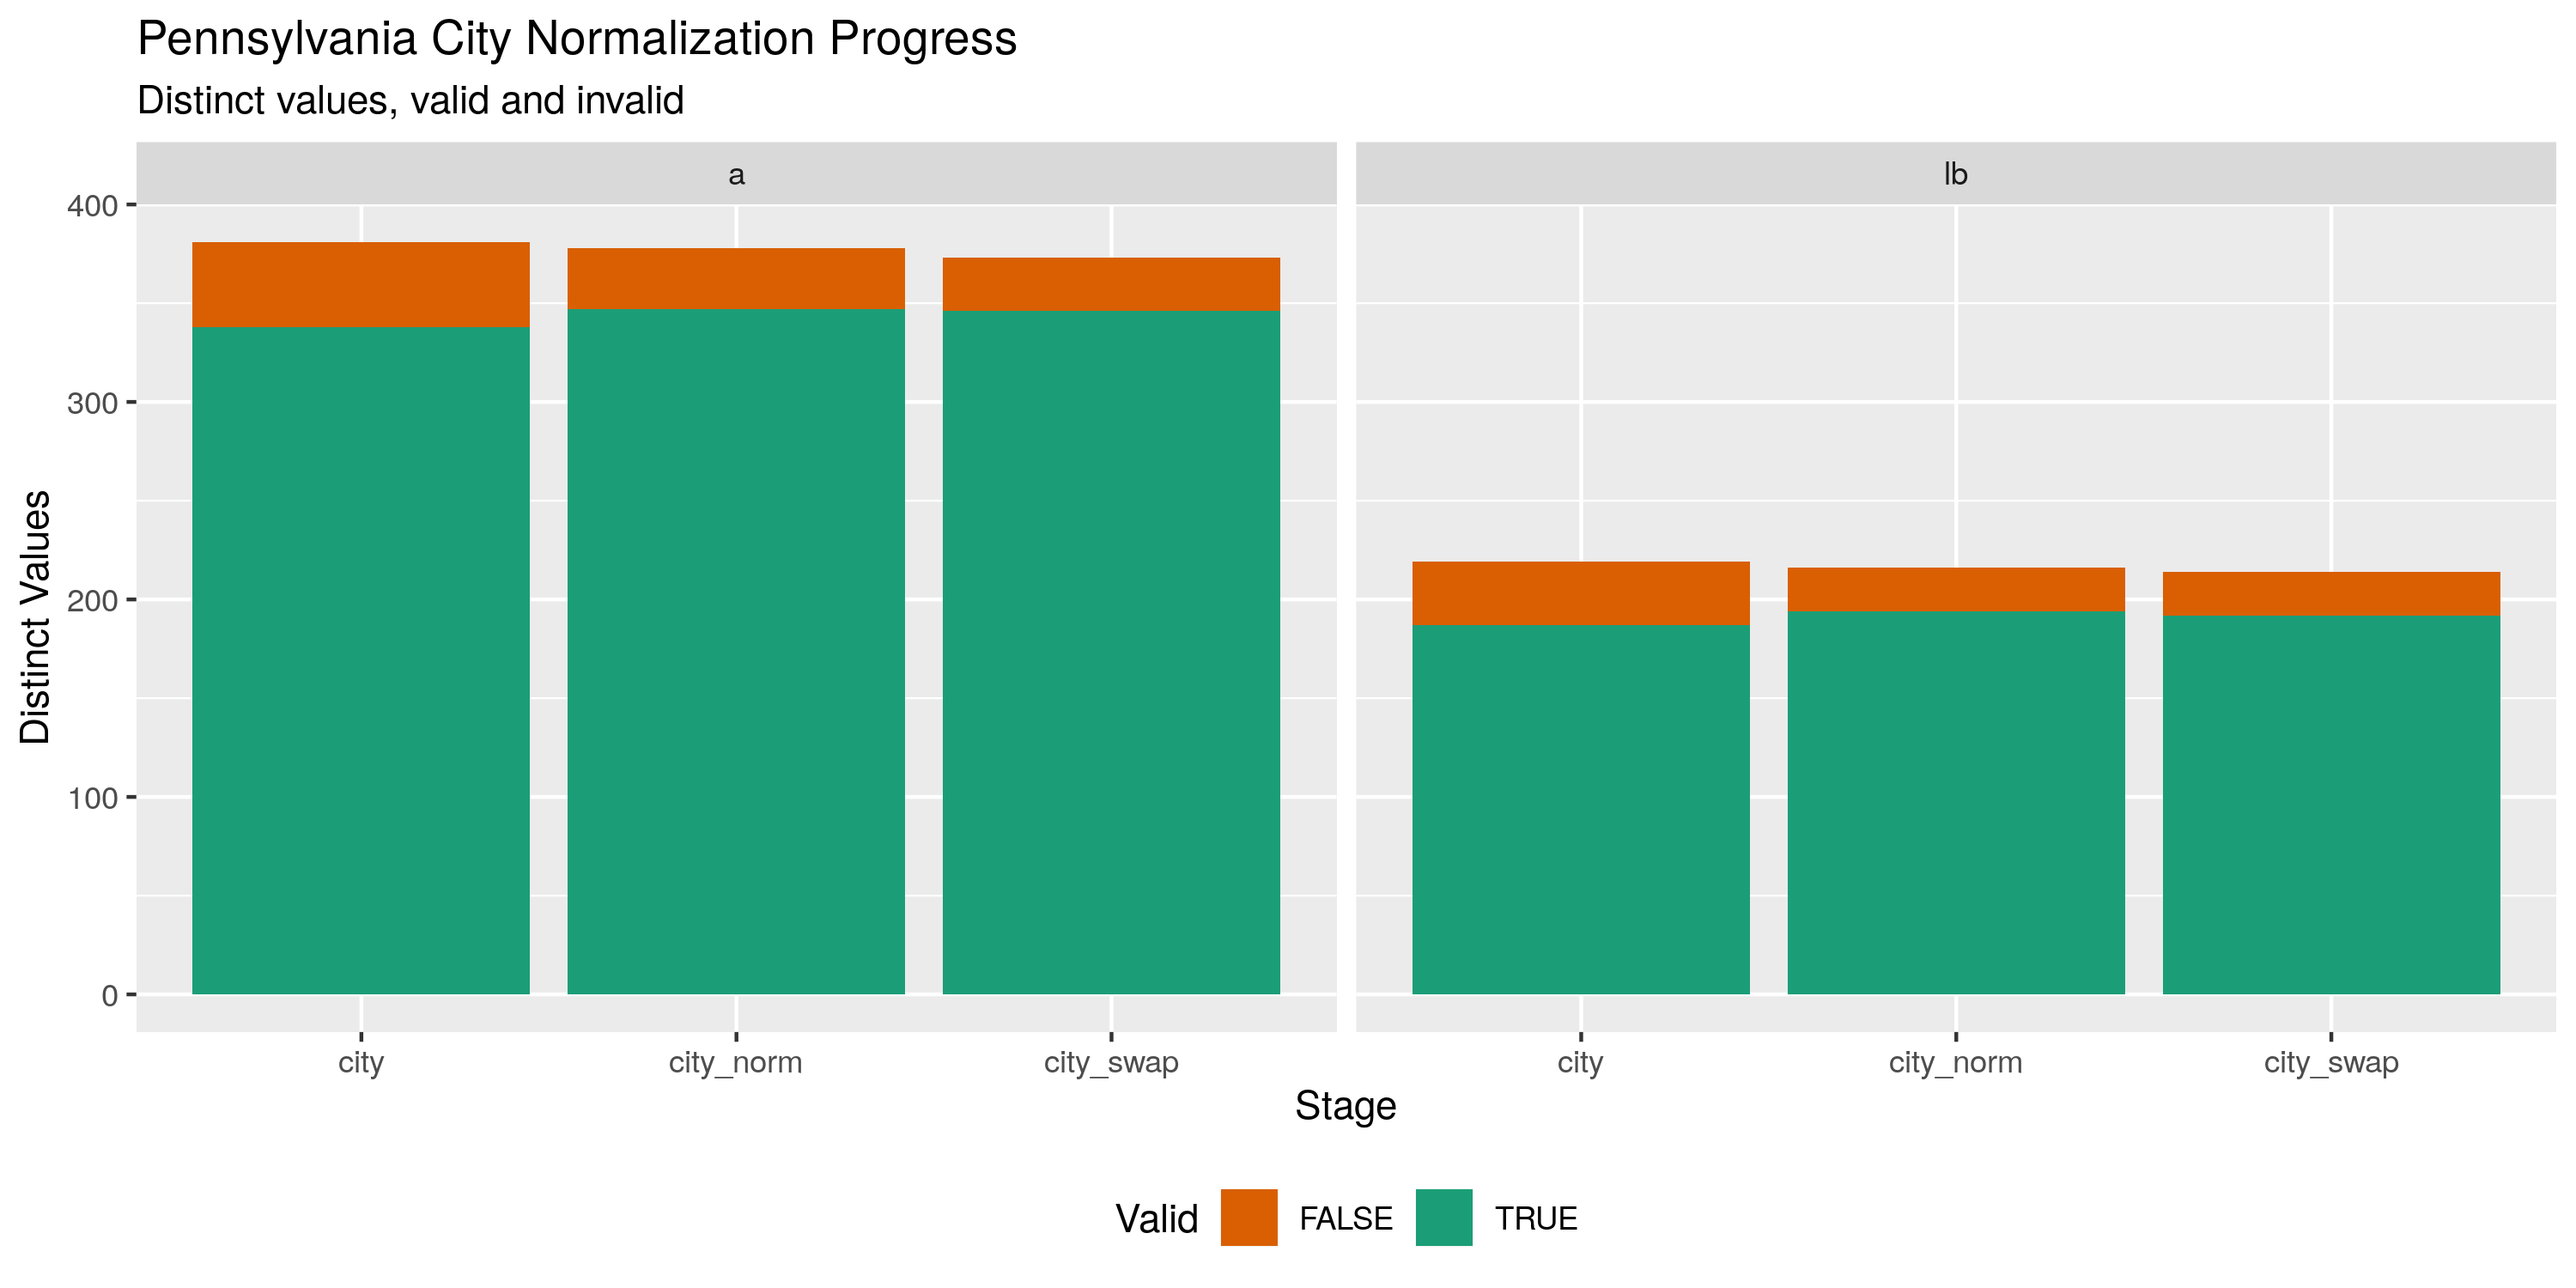
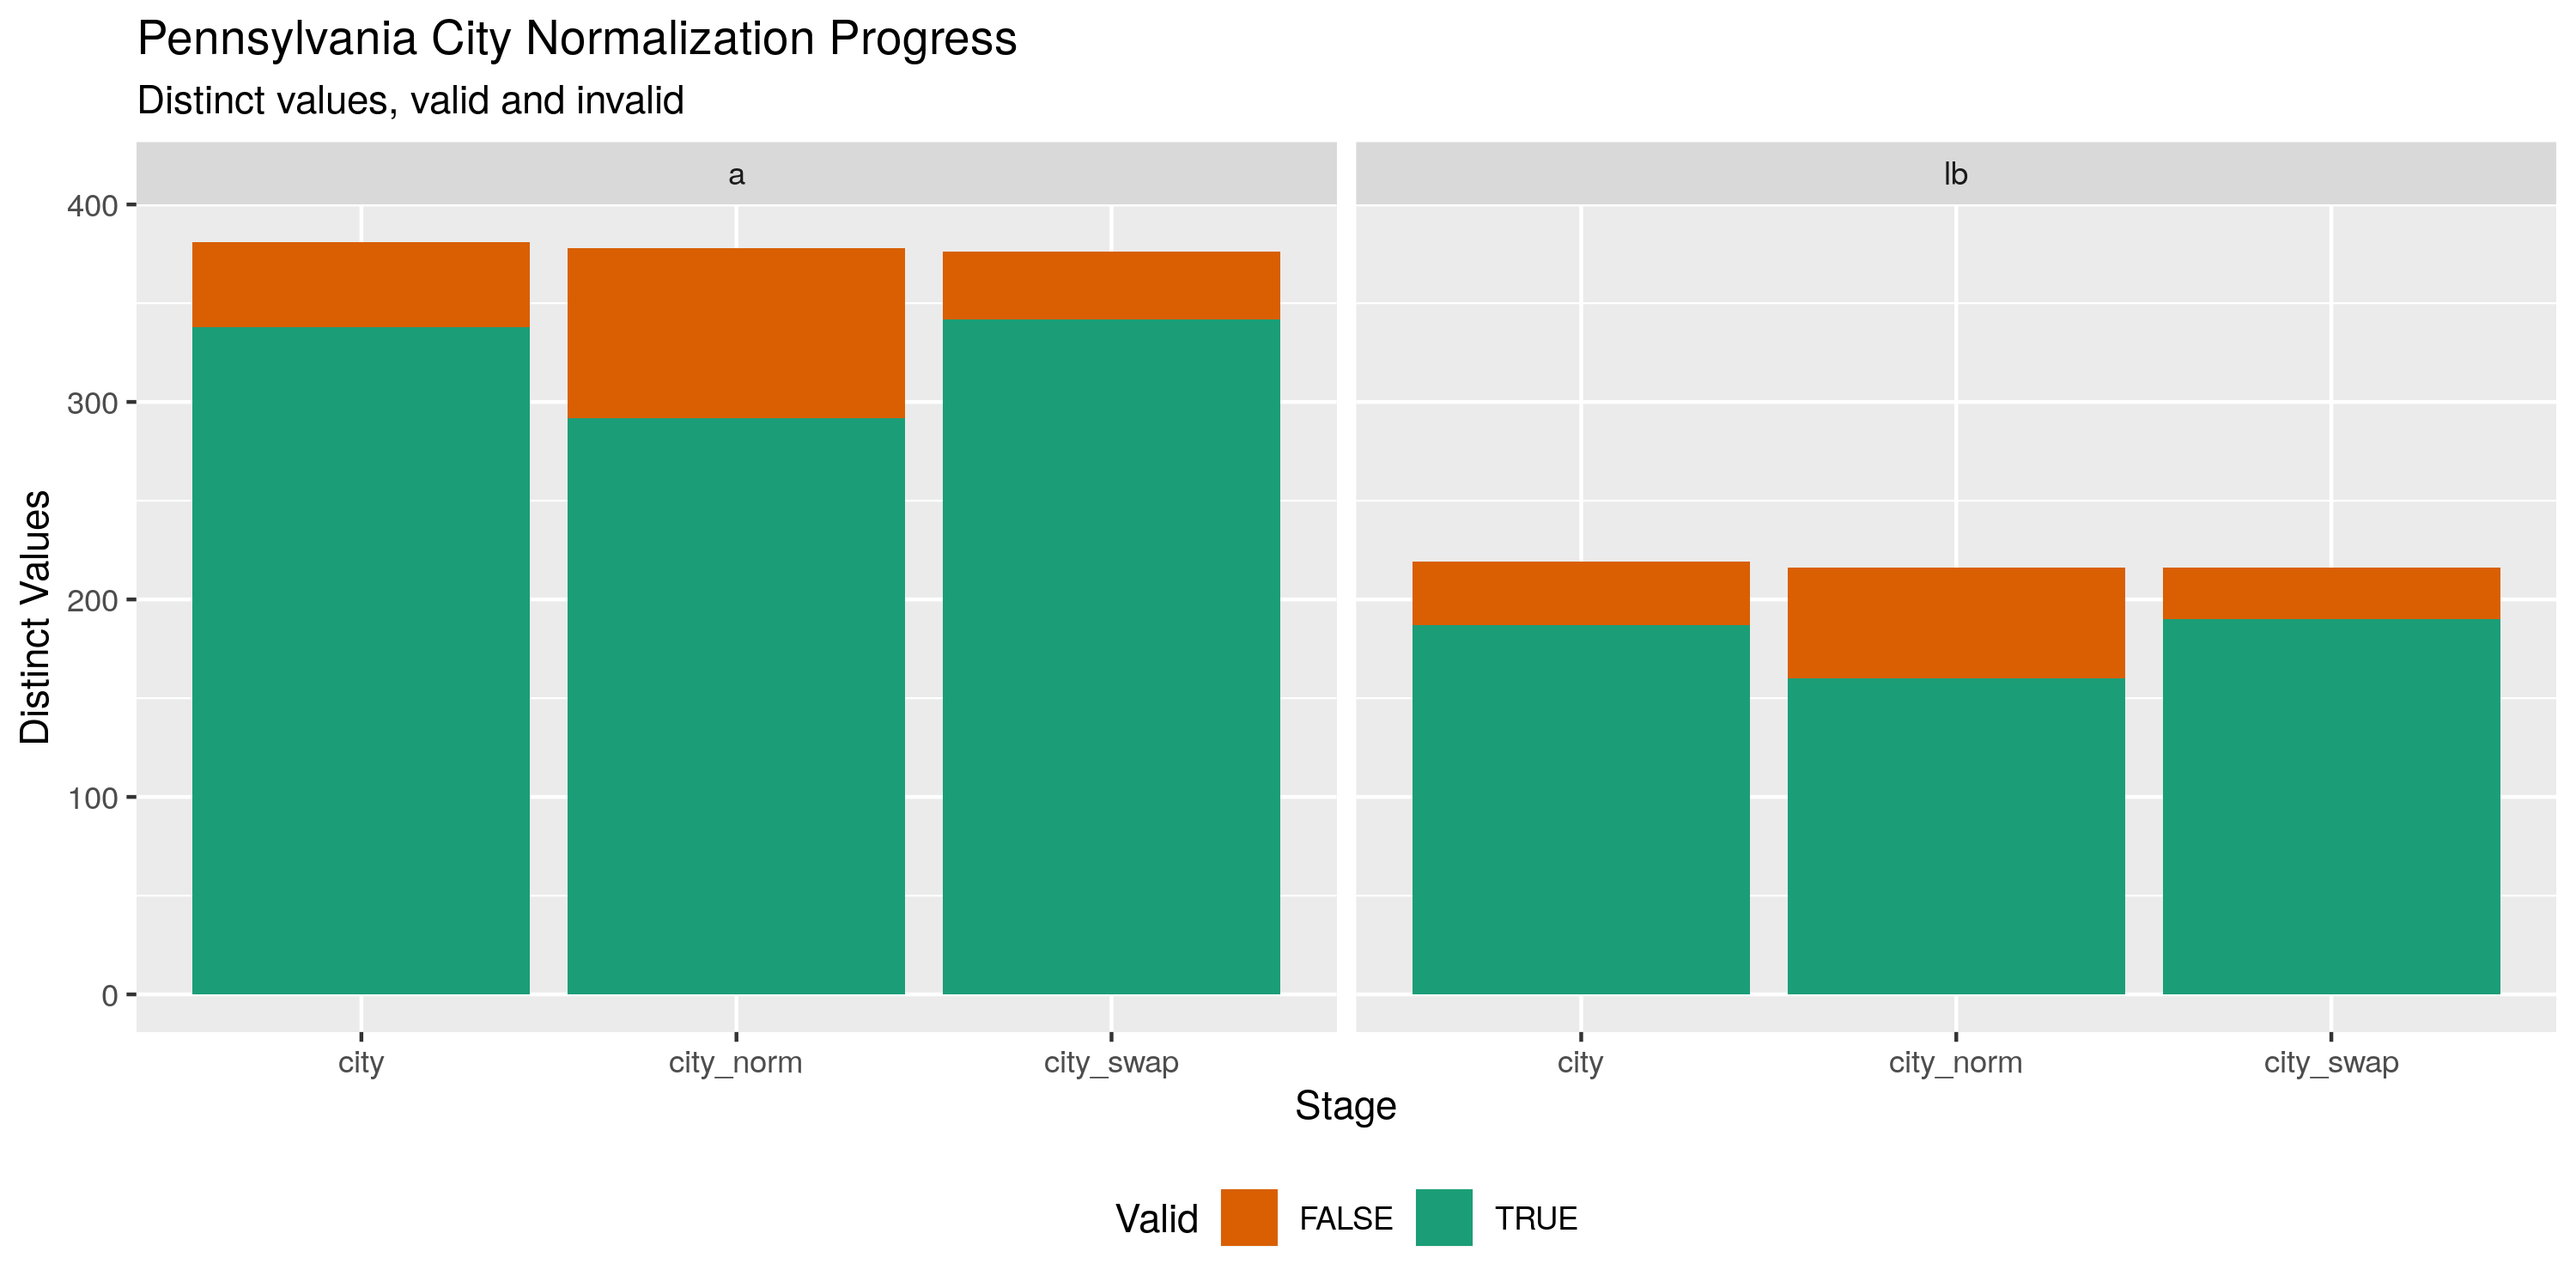
Finish MN lobbyist expenditures

diff --git a/R_campfin/mn/lobby/docs/mn_lobby_diary.md b/R_campfin/mn/lobby/docs/mn_lobby_diary.md
@@ -1,7 +1,7 @@
 Minnesota Lobbyists
 ================
 Kiernan Nicholls
-2019-12-17 16:38:11
+2020-01-21 16:16:18
 
   - [Project](#project)
   - [Objectives](#objectives)
@@ -118,8 +118,7 @@ relationships into a single data frame. We can run that script now if
 needed.
 
 ``` r
-raw_dir <- here("mn", "lobby", "data", "raw")
-dir_create(raw_dir)
+raw_dir <- dir_create(here("mn", "lobby", "data", "raw"))
 scrape_file <- dir_ls(raw_dir, glob = "*lob_scrape.csv$")
 scrape_script <- here("mn", "lobby", "code", "scrape_mn_lobby.R")
 if (!file_exists(path = scrape_file)) {
@@ -266,18 +265,18 @@ mnlr <- mutate_at(
 ```
 
     #> # A tibble: 3,354 x 4
-    #>    lb_street          a_street                 lb_street_norm           a_street_norm              
-    #>    <chr>              <chr>                    <chr>                    <chr>                      
-    #>  1 100 Empire Dr Ste… 100 Empire Dr Ste 202    100 EMPIRE DRIVE SUITE … 100 EMPIRE DRIVE SUITE 202 
-    #>  2 750 Otto Ave #2549 17025 Hwy 12 NE          750 OTTO AVENUE 2549     17025 HIGHWAY 12 NORTHEAST 
-    #>  3 525 Park St Ste 2… 901 Marquette Ave 7th F… 525 PARK STREET SUITE 2… 901 MARQUETTE AVENUE 7TH F…
-    #>  4 4525 Douglas Ave   2355 Hwy 36 West Ste 400 4525 DOUGLAS AVENUE      2355 HIGHWAY 36 WEST SUITE…
-    #>  5 90 S 7th St #2200… 4248 Park Glen Rd        90 SOUTH 7TH STREET 220… 4248 PARK GLEN ROAD        
-    #>  6 701 City Center Dr 720 City Center Dr       701 CITY CENTER DRIVE    720 CITY CENTER DRIVE      
-    #>  7 168 6th St E Unit… 4111 E 37th St N         168 6TH STREET EAST UNI… 4111 EAST 37TH STREET NORTH
-    #>  8 6965 Oakbrook St … 10710 Midlothian Turnpi… 6965 OAKBROOK STREET SO… 10710 MIDLOTHIAN TURNPIKE …
-    #>  9 17444 Park Ave SE  8170 33rd Ave S MS 2110… 17444 PARK AVENUE SOUTH… 8170 33RD AVENUE SOUTH MS …
-    #> 10 114 Mackubin St S… 2400 W 64th St           114 MACKUBIN STREET SUI… 2400 WEST 64TH STREET      
+    #>    lb_street            a_street                     lb_street_norm       a_street_norm            
+    #>    <chr>                <chr>                        <chr>                <chr>                    
+    #>  1 100 Empire Dr Ste 2… 100 Empire Dr Ste 202        100 EMPIRE DR STE 2… 100 EMPIRE DR STE 202    
+    #>  2 750 Otto Ave #2549   17025 Hwy 12 NE              750 OTTO AVE 2549    17025 HWY 12 NE          
+    #>  3 525 Park St Ste 210  901 Marquette Ave 7th Flr    525 PARK ST STE 210  901 MARQUETTE AVE 7TH FLR
+    #>  4 4525 Douglas Ave     2355 Hwy 36 West Ste 400     4525 DOUGLAS AVE     2355 HWY 36 W STE 400    
+    #>  5 90 S 7th St #2200 W… 4248 Park Glen Rd            90 S 7TH ST 2200 WFC 4248 PARK GLN RD         
+    #>  6 701 City Center Dr   720 City Center Dr           701 CITY CTR DR      720 CITY CTR DR          
+    #>  7 168 6th St E Unit 3… 4111 E 37th St N             168 6TH ST E UNIT 3… 4111 E 37TH ST N         
+    #>  8 6965 Oakbrook St SE  10710 Midlothian Turnpike S… 6965 OAKBROOK ST SE  10710 MIDLOTHIAN TPKE ST…
+    #>  9 17444 Park Ave SE    8170 33rd Ave S MS 21106R    17444 PARK AVE SE    8170 33RD AVE S MS 21106R
+    #> 10 114 Mackubin St Ste… 2400 W 64th St               114 MACKUBIN ST STE… 2400 W 64TH ST           
     #> # … with 3,344 more rows
 
 ### ZIP
@@ -417,11 +416,11 @@ kable(progress, digits = 3)
 | type | stage      | prop\_in | n\_distinct | prop\_na | n\_out | n\_diff |
 | :--: | :--------- | -------: | ----------: | -------: | -----: | ------: |
 |  lb  | city       |    0.593 |         219 |    0.000 |   2223 |      32 |
-|  lb  | city\_norm |    0.970 |         216 |    0.000 |    164 |      22 |
-|  lb  | city\_swap |    0.970 |         214 |    0.001 |    163 |      22 |
+|  lb  | city\_norm |    0.575 |         216 |    0.000 |   2321 |      56 |
+|  lb  | city\_swap |    0.963 |         216 |    0.001 |    203 |      26 |
 |  a   | city       |    0.704 |         381 |    0.006 |   1605 |      43 |
-|  a   | city\_norm |    0.953 |         378 |    0.006 |    254 |      31 |
-|  a   | city\_swap |    0.954 |         373 |    0.011 |    246 |      27 |
+|  a   | city\_norm |    0.652 |         378 |    0.006 |   1887 |      86 |
+|  a   | city\_swap |    0.943 |         376 |    0.011 |    306 |      34 |
 
 ![](../plots/plot_prop-1.png)<!-- -->
 
@@ -430,8 +429,7 @@ kable(progress, digits = 3)
 ## Export
 
 ``` r
-proc_dir <- here("mn", "lobby", "data", "processed")
-dir_create(proc_dir)
+proc_dir <- dir_create(here("mn", "lobby", "data", "processed"))
 write_csv(
   x = mnlr,
   path = glue("{proc_dir}/mn_lobbyists.csv"),
@@ -489,3 +487,42 @@ mnle %>%
 ```
 
 ![](../plots/plot_lob_amount-1.png)<!-- -->
+
+Since this database will be uploaded separately from the lobbyist
+registration containing the phone number and addresses of principal
+clients, we will have to add these columns so that the expenditure
+records will show up when this information is searched.
+
+``` r
+a_info <- mnlr %>% 
+  select(starts_with("a_")) %>% 
+  select(a_id, a_website, a_contact, a_street_norm, a_city_norm, a_state, a_zip_norm)
+mnle <- left_join(mnle, a_info, by = "a_id")
+```
+
+``` r
+col_stats(mnle, count_na)
+#> # A tibble: 12 x 4
+#>    col           class     n        p
+#>    <chr>         <chr> <int>    <dbl>
+#>  1 a_name        <chr>     0 0       
+#>  2 a_id          <chr>     0 0       
+#>  3 year          <dbl>     0 0       
+#>  4 gen_amount    <dbl>    12 0.00254 
+#>  5 lob_amount    <dbl>    12 0.00254 
+#>  6 total_amount  <dbl>    12 0.00254 
+#>  7 a_website     <chr>     4 0.000847
+#>  8 a_contact     <chr>    20 0.00424 
+#>  9 a_street_norm <chr>    20 0.00424 
+#> 10 a_city_norm   <chr>    20 0.00424 
+#> 11 a_state       <chr>    20 0.00424 
+#> 12 a_zip_norm    <chr>    20 0.00424
+```
+
+``` r
+write_csv(
+  x = mnle,
+  path = glue("{proc_dir}/mn_lobby_expend.csv"),
+  na = ""
+)
+```
